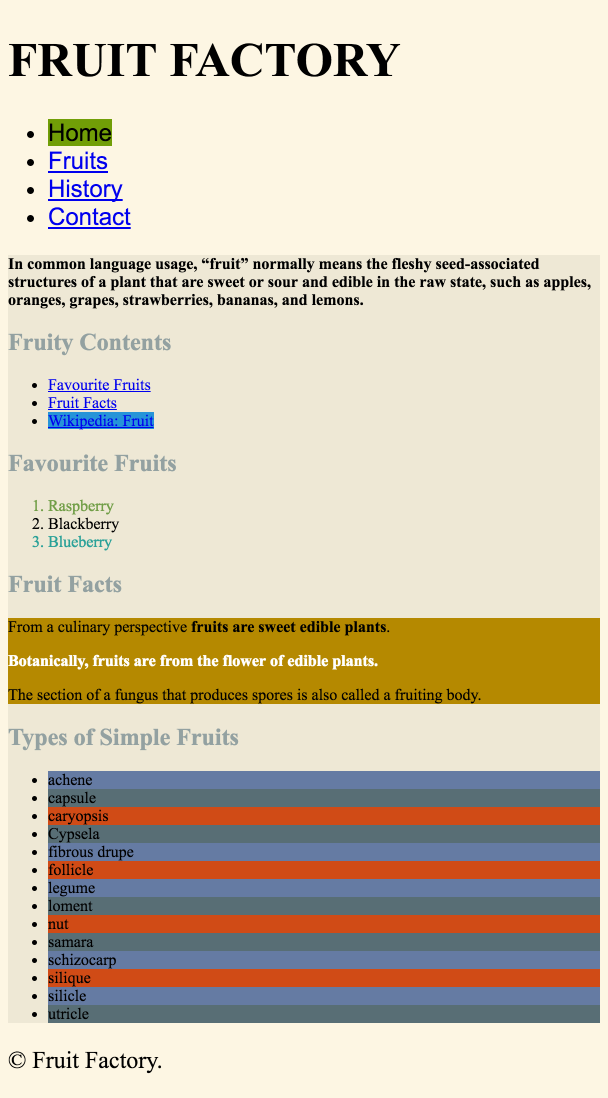
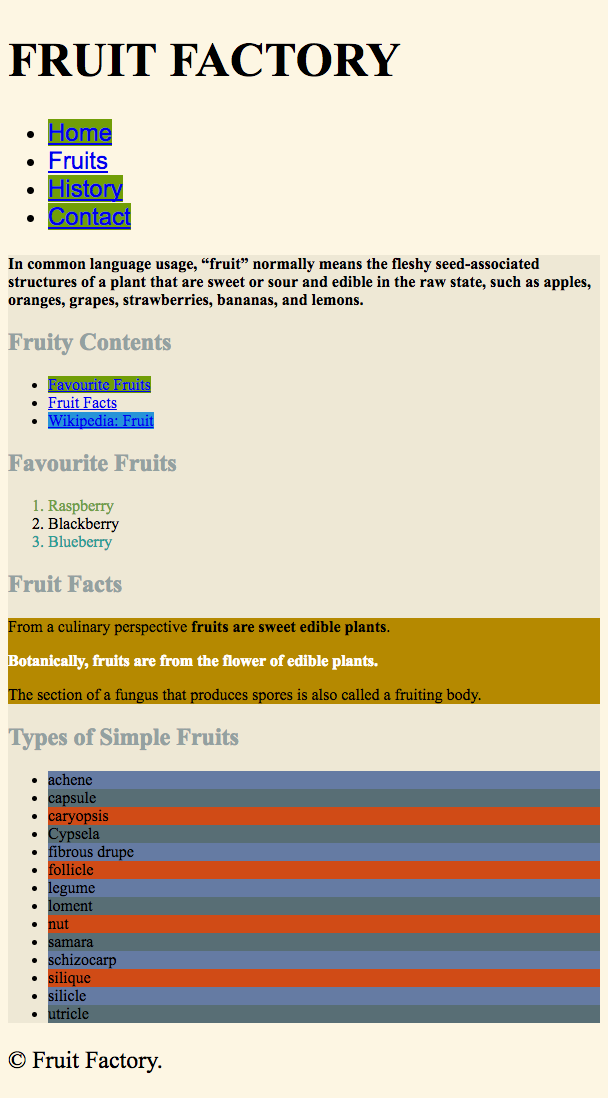
Update the requirements

diff --git a/index.html b/index.html
@@ -12,8 +12,8 @@
     <h1 class="logo">Fruit Factory</h1>
     <nav>
       <ul>
-        <li><mark>Home</mark></li>
-        <li><a href="fruits.html">Fruits</a></li>
+        <li><a href="index.html">Home</a></li>
+        <li><a class="no-highlight" href="fruits.html">Fruits</a></li>
         <li><a href="history.html">History</a></li>
         <li><a href="contact.html">Contact</a></li>
       </ul>
@@ -29,8 +29,8 @@
     <h2 id="contents">Fruity Contents</h2>
     <ul>
       <li><a href="#favs">Favourite Fruits</a></li>
-      <li><a href="#facts">Fruit Facts</a></li>
-      <li><a href="http://en.wikipedia.org/wiki/Fruit" rel="external">Wikipedia: Fruit</a></li>
+      <li><a class="no-highlight" href="#facts">Fruit Facts</a></li>
+      <li><a class="no-highlight" href="http://en.wikipedia.org/wiki/Fruit" rel="external">Wikipedia: Fruit</a></li>
     </ul>
 
     <h2 id="favs">Favourite Fruits</h2>

diff --git a/README.md b/README.md
@@ -35,7 +35,7 @@ deliverables: "1 HTML file, 1 CSS file"
   — add `background-color: #b58900;`
 8. Use an adjacent selector to get the second `strong` inside `.dfn`
   — add `color: #fff;`
-9. Write the fully qualified selector for `mark`, starting with `html`
+9. Select all the `a` tags, but not the `a` tags with the class of `.no-highlight`
   — add `background-color: #719e07;`
 10. Select the link with `rel="external"` attribute
   — add `background-color: #2694d8;`
